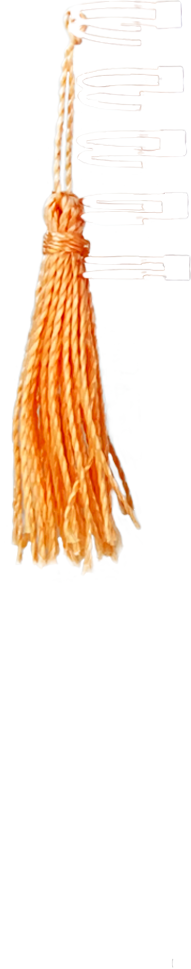
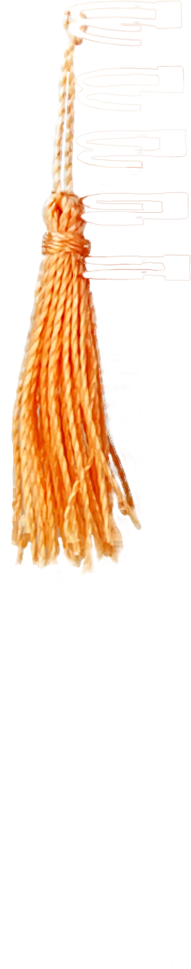
v0.9.37: tira o branco das bordas do tassel (cor das bordas semitransparentes vinha do fundo branco)
Claude-Session: https://claude.ai/code/session_01BQFSva6B4jquRdCtLYfYjR

diff --git a/tools/limpar_bordas_tassel.py b/tools/limpar_bordas_tassel.py
@@ -1,0 +1,38 @@
+"""Tira o "branco" das bordas do tassel.
+
+As camadas tassel-*.png do pacote têm, nas bordas semitransparentes, uma cor quase branca (sobra do fundo branco do
+recorte): sobre a arte colorida aparece como uma névoa clara em volta das fibras. Aqui cada pixel não totalmente opaco
+recebe a cor do pixel opaco mais próximo, mantendo o alfa. É seguro rodar de novo (não muda o que já está limpo).
+
+Uso:  python3 tools/limpar_bordas_tassel.py   (na pasta do projeto)
+"""
+from pathlib import Path
+
+import numpy as np
+from PIL import Image
+from scipy import ndimage as ndi
+
+PASTAS = [Path("pack/layers"), Path("pack/especificacao/layers"), Path("pack/verso/layers")]
+OPACO = 250  # a partir daqui o pixel já é "miolo": a cor dele é a verdadeira
+
+
+def limpar(caminho: Path) -> int:
+    im = np.array(Image.open(caminho).convert("RGBA"))
+    solido = im[..., 3] >= OPACO
+    if not solido.any():
+        return 0
+    idx = ndi.distance_transform_edt(~solido, return_distances=False, return_indices=True)
+    novo = im.copy()
+    novo[..., :3] = im[idx[0], idx[1], :3]
+    novo[solido] = im[solido]
+    novo[..., 3] = im[..., 3]  # o alfa não muda: só a cor das bordas
+    mudou = int((novo[..., :3] != im[..., :3]).any(axis=2).sum())
+    if mudou:
+        Image.fromarray(novo, "RGBA").save(caminho, optimize=True)
+    return mudou
+
+
+if __name__ == "__main__":
+    for pasta in PASTAS:
+        for arq in sorted(pasta.glob("tassel-*.png")):
+            print(f"{arq}: {limpar(arq)} pixels de borda corrigidos")
